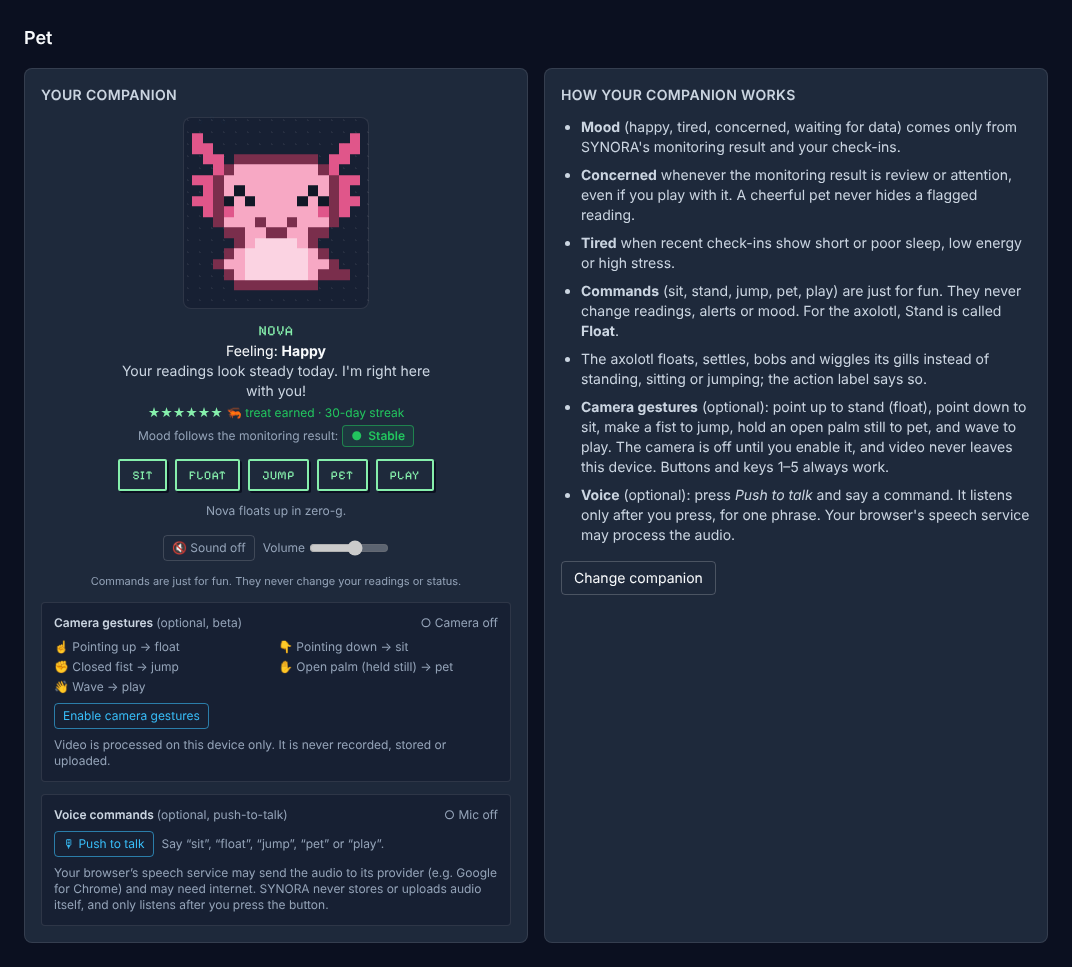
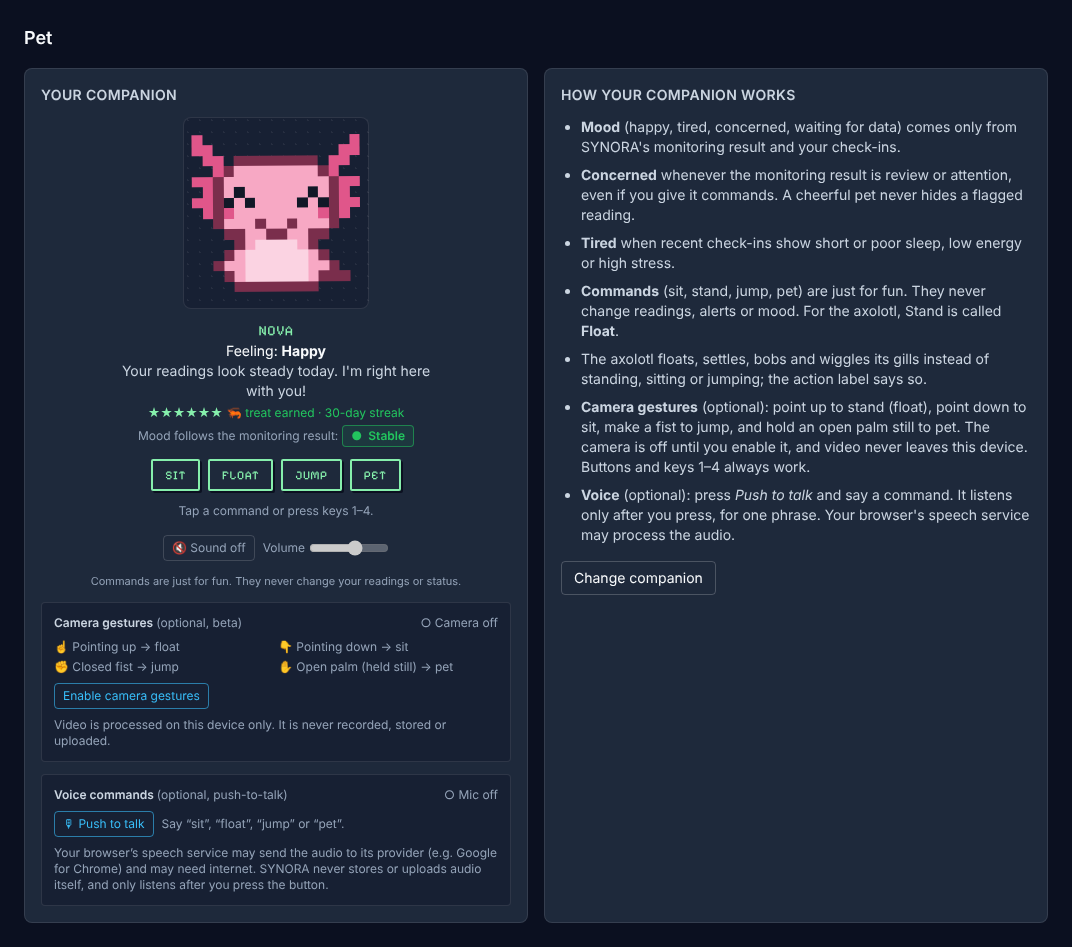
Remove "play" from pet commands, gestures and voice
Team decision. Commands are now sit, stand (axolotl: Float), jump, pet
on keys 1–4.

- Removed the play command, its button, key 5, voice words and the
  wave gesture (which only triggered play); the wave detector is gone
- Open palm still needs to be held still briefly so a hand passing the
  camera doesn't trigger pet
- Pet page, CLAUDE.md contract/gesture/voice sections and README updated
- Tests updated (236 pass), incl. "play" no longer recognised by voice

Claude-Session: https://claude.ai/code/session_01HW1NXy5rV5bSzyddy5wmmo

diff --git a/src/features/pet-input/gestures.ts b/src/features/pet-input/gestures.ts
@@ -6,16 +6,15 @@ import type { PetCommand } from '../health/types';
  *
  * Pointing up, closed fist and open palm come from MediaPipe's built-in
  * Gesture Recognizer. Pointing down (no built-in category) is derived from
- * hand landmarks, and wave from side-to-side wrist movement over time.
+ * hand landmarks.
  */
-export type GestureKey = 'Pointing_Up' | 'Pointing_Down' | 'Closed_Fist' | 'Open_Palm' | 'Wave';
+export type GestureKey = 'Pointing_Up' | 'Pointing_Down' | 'Closed_Fist' | 'Open_Palm';
 
 export const GESTURE_COMMANDS: Record<GestureKey, { command: PetCommand; label: string; emoji: string }> = {
   Pointing_Up: { command: 'stand', label: 'Pointing up', emoji: '☝' },
   Pointing_Down: { command: 'sit', label: 'Pointing down', emoji: '👇' },
   Closed_Fist: { command: 'jump', label: 'Closed fist', emoji: '✊' },
   Open_Palm: { command: 'pet', label: 'Open palm (held still)', emoji: '✋' },
-  Wave: { command: 'play', label: 'Wave', emoji: '👋' },
 };
 
 /** Normalised image coordinates (0–1, y grows downward), 21 MediaPipe hand points. */
@@ -37,16 +36,10 @@ export interface InterpreterOptions {
   minScore: number;
   /** Consecutive matching frames before a static gesture fires. */
   framesToConfirm: number;
-  /** Open palm must be held this many frames AND stay still (it's also how a wave starts). */
+  /** Open palm must be held this many frames AND stay still (avoids a passing hand petting). */
   palmFramesToConfirm: number;
   /** Max side-to-side wrist travel (normalised) for a palm to count as "still". */
   palmStillRange: number;
-  /** Wave: look back this far… */
-  waveWindowMs: number;
-  /** …for at least this many direction changes… */
-  waveReversals: number;
-  /** …covering at least this much horizontal travel. */
-  waveMinRange: number;
   /** Minimum time between fired commands. */
   cooldownMs: number;
 }
@@ -56,9 +49,6 @@ export const DEFAULT_INTERPRETER: InterpreterOptions = {
   framesToConfirm: 4,
   palmFramesToConfirm: 6,
   palmStillRange: 0.05,
-  waveWindowMs: 1500,
-  waveReversals: 2,
-  waveMinRange: 0.12,
   cooldownMs: 1200,
 };
 
@@ -87,7 +77,7 @@ export function isPointingDown(lm: Landmark[] | undefined): boolean {
   return pointsDown && othersCurled;
 }
 
-/** Classify one frame into a static gesture key (wave is detected over time). */
+/** Classify one frame into a gesture key. */
 export function classifyFrame(f: GestureFrame, minScore = DEFAULT_INTERPRETER.minScore): GestureKey | undefined {
   if (f.gesture === 'Pointing_Up' && f.score >= minScore) return 'Pointing_Up';
   if (isPointingDown(f.landmarks)) return 'Pointing_Down';
@@ -99,7 +89,7 @@ export function classifyFrame(f: GestureFrame, minScore = DEFAULT_INTERPRETER.mi
 /**
  * Turns a stream of frames into commands, with confidence threshold,
  * multi-frame confirmation, a hold-latch (a held gesture fires once) and a
- * cooldown. Wave is checked first because a waving hand is an open palm.
+ * cooldown.
  */
 export class GestureInterpreter {
   private candidate?: GestureKey;
@@ -107,7 +97,6 @@ export class GestureInterpreter {
   private latched?: GestureKey;
   private lastFiredAt = -Infinity;
   private palmXs: number[] = [];
-  private wrist: { t: number; x: number }[] = [];
   /** What the interpreter currently sees (for the on-screen label). */
   seen?: GestureKey;
 
@@ -116,20 +105,6 @@ export class GestureInterpreter {
   push(f: GestureFrame): { command: PetCommand; gesture: GestureKey } | undefined {
     const key = classifyFrame(f, this.opts.minScore);
     const wristX = f.landmarks?.[WRIST]?.x;
-
-    // --- Wave: open palm (or an unclassified moving hand) swinging side to side.
-    if (wristX !== undefined && (key === 'Open_Palm' || key === undefined)) {
-      this.wrist.push({ t: f.t, x: wristX });
-      this.wrist = this.wrist.filter((p) => f.t - p.t <= this.opts.waveWindowMs);
-      if (this.isWave()) {
-        this.wrist = [];
-        this.resetCandidate();
-        this.seen = 'Wave';
-        return this.fire('Wave', f.t);
-      }
-    } else {
-      this.wrist = [];
-    }
 
     this.seen = key;
     if (!key) {
@@ -161,7 +136,6 @@ export class GestureInterpreter {
   reset() {
     this.resetCandidate();
     this.latched = undefined;
-    this.wrist = [];
     this.seen = undefined;
   }
 
@@ -176,20 +150,5 @@ export class GestureInterpreter {
     this.candidate = undefined;
     this.count = 0;
     this.palmXs = [];
-  }
-
-  private isWave(): boolean {
-    const xs = this.wrist.map((p) => p.x);
-    if (xs.length < 4 || Math.max(...xs) - Math.min(...xs) < this.opts.waveMinRange) return false;
-    let reversals = 0;
-    let dir = 0;
-    for (let i = 1; i < xs.length; i++) {
-      const dx = xs[i] - xs[i - 1];
-      if (Math.abs(dx) < 0.01) continue; // ignore jitter
-      const d = Math.sign(dx);
-      if (dir !== 0 && d !== dir) reversals++;
-      dir = d;
-    }
-    return reversals >= this.opts.waveReversals;
   }
 }

diff --git a/src/features/pets/PetPage.tsx b/src/features/pets/PetPage.tsx
@@ -14,11 +14,11 @@ export function PetPage() {
       <Card title="How your companion works">
         <ul className="list-disc space-y-2 pl-5 text-sm text-text-secondary">
           <li><strong>Mood</strong> (happy, tired, concerned, waiting for data) comes only from SYNORA's monitoring result and your check-ins.</li>
-          <li><strong>Concerned</strong> whenever the monitoring result is review or attention, even if you play with it. A cheerful pet never hides a flagged reading.</li>
+          <li><strong>Concerned</strong> whenever the monitoring result is review or attention, even if you give it commands. A cheerful pet never hides a flagged reading.</li>
           <li><strong>Tired</strong> when recent check-ins show short or poor sleep, low energy or high stress.</li>
-          <li><strong>Commands</strong> (sit, stand, jump, pet, play) are just for fun. They never change readings, alerts or mood. For the axolotl, Stand is called <strong>Float</strong>.</li>
+          <li><strong>Commands</strong> (sit, stand, jump, pet) are just for fun. They never change readings, alerts or mood. For the axolotl, Stand is called <strong>Float</strong>.</li>
           <li>The axolotl floats, settles, bobs and wiggles its gills instead of standing, sitting or jumping; the action label says so.</li>
-          <li><strong>Camera gestures</strong> (optional): point up to stand (float), point down to sit, make a fist to jump, hold an open palm still to pet, and wave to play. The camera is off until you enable it, and video never leaves this device. Buttons and keys 1–5 always work.</li>
+          <li><strong>Camera gestures</strong> (optional): point up to stand (float), point down to sit, make a fist to jump, and hold an open palm still to pet. The camera is off until you enable it, and video never leaves this device. Buttons and keys 1–4 always work.</li>
           <li><strong>Voice</strong> (optional): press <em>Push to talk</em> and say a command. It listens only after you press, for one phrase. Your browser's speech service may process the audio.</li>
         </ul>
         <div className="mt-4">

diff --git a/src/features/pets/commands.ts b/src/features/pets/commands.ts
@@ -8,14 +8,13 @@ import type { PetCommand, PetSpecies } from '../health/types';
  * measurement, an assessment, an alert, or the pet's wellness state.
  */
 
-export const COMMANDS: PetCommand[] = ['sit', 'stand', 'jump', 'pet', 'play'];
+export const COMMANDS: PetCommand[] = ['sit', 'stand', 'jump', 'pet'];
 
 export const COMMAND_KEYS: Record<string, PetCommand> = {
   '1': 'sit',
   '2': 'stand',
   '3': 'jump',
   '4': 'pet',
-  '5': 'play',
 };
 
 /** Button/voice label for a command: the axolotl's "stand" is called Float. */
@@ -25,7 +24,7 @@ export function commandLabel(species: PetSpecies, command: PetCommand): string {
 
 export interface ResolvedAction {
   /** CSS animation class in index.css. */
-  animation: 'sit' | 'stand' | 'jump' | 'pet' | 'play' | 'float' | 'settle' | 'bob' | 'gills';
+  animation: 'sit' | 'stand' | 'jump' | 'pet' | 'float' | 'settle' | 'bob' | 'gills';
   /** What the user sees, e.g. "Pip sits". */
   verb: string;
   /** True when the species shows an equivalent rather than the literal command. */
@@ -37,7 +36,6 @@ const LITERAL: Record<PetCommand, ResolvedAction> = {
   stand: { animation: 'stand', verb: 'stands up', equivalent: false },
   jump: { animation: 'jump', verb: 'jumps', equivalent: false },
   pet: { animation: 'pet', verb: 'enjoys being petted', equivalent: false },
-  play: { animation: 'play', verb: 'plays', equivalent: false },
 };
 
 /** Axolotls don't sit or stand: they drift, bob and wiggle their gills. */
@@ -46,7 +44,6 @@ const AXOLOTL: Record<PetCommand, ResolvedAction> = {
   stand: { animation: 'float', verb: 'floats up in zero-g', equivalent: true },
   jump: { animation: 'bob', verb: 'bobs (axolotl equivalent of jump)', equivalent: true },
   pet: { animation: 'gills', verb: 'wiggles its gills happily', equivalent: false },
-  play: { animation: 'play', verb: 'swirls through some bubbles', equivalent: false },
 };
 
 export function resolveCommand(species: PetSpecies, command: PetCommand): ResolvedAction {

diff --git a/src/tests/gestures.test.ts b/src/tests/gestures.test.ts
@@ -34,13 +34,12 @@ const run = (fs: GestureFrame[], g = new GestureInterpreter()) => fs.map((f) => 
 const repeat = <T,>(n: number, x: T) => Array.from({ length: n }, () => x);
 
 describe('gesture mapping', () => {
-  it('maps the five gestures the team chose', () => {
+  it('maps the four gestures the team chose', () => {
     expect(Object.fromEntries(Object.entries(GESTURE_COMMANDS).map(([k, v]) => [k, v.command]))).toEqual({
       Pointing_Up: 'stand',
       Pointing_Down: 'sit',
       Closed_Fist: 'jump',
       Open_Palm: 'pet',
-      Wave: 'play',
     });
     for (const { command } of Object.values(GESTURE_COMMANDS)) expect(COMMANDS).toContain(command);
   });
@@ -82,7 +81,7 @@ describe('static gestures', () => {
   });
 });
 
-describe('open palm (pet) vs wave (play)', () => {
+describe('open palm (pet)', () => {
   const palm = (x: number) => ({ gesture: 'Open_Palm', landmarks: hand({ wristX: x, open: true }) });
 
   it('an open palm held still → pet', () => {
@@ -94,17 +93,17 @@ describe('open palm (pet) vs wave (play)', () => {
     expect(run(frames(repeat(5, palm(0.5))))).toEqual([]);
   });
 
-  it('a hand waving side to side → play, not pet', () => {
+  it('a hand moving side to side does not pet (no wave/play gesture any more)', () => {
     const xs = [0.4, 0.5, 0.6, 0.5, 0.4, 0.5, 0.6, 0.5];
-    expect(run(frames(xs.map(palm)))).toEqual(['play']);
+    expect(run(frames(xs.map(palm)))).toEqual([]);
   });
 
-  it('a moving palm that does not swing back and forth is neither pet nor wave', () => {
+  it('a palm passing across the camera does not pet', () => {
     const xs = [0.3, 0.35, 0.4, 0.45, 0.5, 0.55, 0.6, 0.65];
     expect(run(frames(xs.map(palm)))).toEqual([]);
   });
 
-  it('small jitter does not count as a wave', () => {
+  it('small jitter still counts as holding still', () => {
     const xs = [0.5, 0.505, 0.5, 0.505, 0.5, 0.505, 0.5, 0.505];
     expect(run(frames(xs.map(palm)))).toEqual(['pet']);
   });

diff --git a/src/features/pet-input/GestureControl.tsx b/src/features/pet-input/GestureControl.tsx
@@ -116,7 +116,7 @@ export function GestureControl({ onCommand, species }: { onCommand: (cmd: PetCom
       setPhase('error');
       setError(
         name === 'NotAllowedError'
-          ? 'Camera permission was denied. The buttons and keys 1–5 still work.'
+          ? 'Camera permission was denied. The buttons and keys 1–4 still work.'
           : name === 'NotFoundError'
             ? 'No camera was found.'
             : !navigator.onLine
@@ -127,7 +127,7 @@ export function GestureControl({ onCommand, species }: { onCommand: (cmd: PetCom
   }, [stop]);
 
   if (!supported) {
-    return <p className="text-xs text-text-muted">Camera gestures are not supported in this browser. The buttons and keys 1–5 work.</p>;
+    return <p className="text-xs text-text-muted">Camera gestures are not supported in this browser. The buttons and keys 1–4 work.</p>;
   }
 
   const seenLabel = seen === 'hand' ? 'Hand (no command gesture)' : seen ? `${GESTURE_COMMANDS[seen].emoji} ${GESTURE_COMMANDS[seen].label}` : 'No hand';

diff --git a/src/tests/voice.test.ts b/src/tests/voice.test.ts
@@ -8,8 +8,11 @@ describe('parseVoiceCommand', () => {
     ['stand up', 'stand'],
     ['JUMP!', 'jump'],
     ['good boy', 'pet'],
-    ["let's play", 'play'],
   ])('"%s" → %s', (t, cmd) => expect(parseVoiceCommand(t)).toBe(cmd));
+
+  it('no longer recognises play', () => {
+    expect(parseVoiceCommand("let's play")).toBeUndefined();
+  });
 
   it('returns undefined for unrelated speech', () => {
     expect(parseVoiceCommand('what is my heart rate')).toBeUndefined();
@@ -35,7 +38,7 @@ describe("float is the axolotl's stand", () => {
   });
   it('suggests the words that match the buttons', async () => {
     const { voiceHints } = await import('../features/pet-input/voice');
-    expect(voiceHints('axolotl')).toEqual(['sit', 'float', 'jump', 'pet', 'play']);
-    expect(voiceHints('dog')).toEqual(['sit', 'stand', 'jump', 'pet', 'play']);
+    expect(voiceHints('axolotl')).toEqual(['sit', 'float', 'jump', 'pet']);
+    expect(voiceHints('dog')).toEqual(['sit', 'stand', 'jump', 'pet']);
   });
 });

diff --git a/src/features/pets/PetPanel.tsx b/src/features/pets/PetPanel.tsx
@@ -65,7 +65,7 @@ export function PetPanel({ compact = false, withGestures = false }: { compact?: 
     }, 3000);
   }, [routine.complete, mode, species]);
 
-  // Keyboard shortcuts 1–5 (ignored while typing in a form field).
+  // Keyboard shortcuts 1–4 (ignored while typing in a form field).
   useEffect(() => {
     if (compact) return;
     const onKey = (e: KeyboardEvent) => {
@@ -128,7 +128,7 @@ export function PetPanel({ compact = false, withGestures = false }: { compact?: 
             ))}
           </div>
           <p className="min-h-5 text-xs text-text-muted" aria-live="polite">
-            {action ? `${name} ${action.resolved.verb}.` : 'Tap a command or press keys 1–5.'}
+            {action ? `${name} ${action.resolved.verb}.` : 'Tap a command or press keys 1–4.'}
           </p>
           <div className="flex flex-wrap items-center justify-center gap-2 text-xs text-text-muted">
             <button

diff --git a/src/features/pet-input/voice.ts b/src/features/pet-input/voice.ts
@@ -6,7 +6,6 @@ const WORDS: [RegExp, PetCommand][] = [
   [/\b(stand|stand up|get up|up)\b/, 'stand'],
   [/\b(jump|hop|bounce)\b/, 'jump'],
   [/\b(pet|good (boy|girl|kitty|pup)|cuddle)\b/, 'pet'],
-  [/\b(play|let's play|fetch)\b/, 'play'],
 ];
 
 /** For the axolotl, "float" is the name of its stand command. */
@@ -26,5 +25,5 @@ export function parseVoiceCommand(transcript: string, species?: PetSpecies): Pet
 
 /** Words to suggest in the UI, matching the pet's buttons. */
 export function voiceHints(species?: PetSpecies): string[] {
-  return ['sit', species === 'axolotl' ? 'float' : 'stand', 'jump', 'pet', 'play'];
+  return ['sit', species === 'axolotl' ? 'float' : 'stand', 'jump', 'pet'];
 }

diff --git a/src/tests/pets.test.ts b/src/tests/pets.test.ts
@@ -16,7 +16,7 @@ describe('pet command controller', () => {
 
   it("has no separate float command; the axolotl's stand is labelled Float", async () => {
     const { commandLabel } = await import('../features/pets/commands');
-    expect(COMMANDS).toEqual(['sit', 'stand', 'jump', 'pet', 'play']);
+    expect(COMMANDS).toEqual(['sit', 'stand', 'jump', 'pet']);
     expect(commandLabel('axolotl', 'stand')).toBe('float');
     expect(commandLabel('cat', 'stand')).toBe('stand');
     expect(resolveCommand('axolotl', 'stand').animation).toBe('float');

diff --git a/src/features/pets/PetSprite.tsx b/src/features/pets/PetSprite.tsx
@@ -44,7 +44,7 @@ export function PetSprite({
       {animation === 'pet' || animation === 'gills' ? (
         <span aria-hidden className="anim-heart absolute -top-1 right-2 text-lg text-[#F4A7B9]">♥</span>
       ) : null}
-      {species === 'axolotl' && (animation === 'play' || animation === 'float') ? (
+      {species === 'axolotl' && animation === 'float' ? (
         <span aria-hidden className="anim-bubbles absolute top-2 left-1 text-sm text-cyan/80">∘ ° ∘</span>
       ) : null}
       {wellness === 'tired' ? (

diff --git a/src/features/health/types.ts b/src/features/health/types.ts
@@ -222,7 +222,7 @@ export type PetWellness = 'happy' | 'tired' | 'concerned' | 'unknown';
  * User-triggered commands. Never affect health state or readings.
  * (No separate "float": for the axolotl, `stand` is shown and labelled as Float.)
  */
-export type PetCommand = 'sit' | 'stand' | 'jump' | 'pet' | 'play';
+export type PetCommand = 'sit' | 'stand' | 'jump' | 'pet';
 
 /** Temporary animation state produced by a command. */
 export type PetAction = 'idle' | PetCommand;

diff --git a/src/features/pet-input/VoiceControl.tsx b/src/features/pet-input/VoiceControl.tsx
@@ -36,7 +36,7 @@ export function VoiceControl({ onCommand, species }: { onCommand: (cmd: PetComma
   const rec = useRef<SpeechRecognitionLike>();
 
   if (!Ctor) {
-    return <p className="text-xs text-text-muted">Voice commands are not supported in this browser. The buttons and keys 1–5 work.</p>;
+    return <p className="text-xs text-text-muted">Voice commands are not supported in this browser. The buttons and keys 1–4 work.</p>;
   }
 
   const listen = () => {
